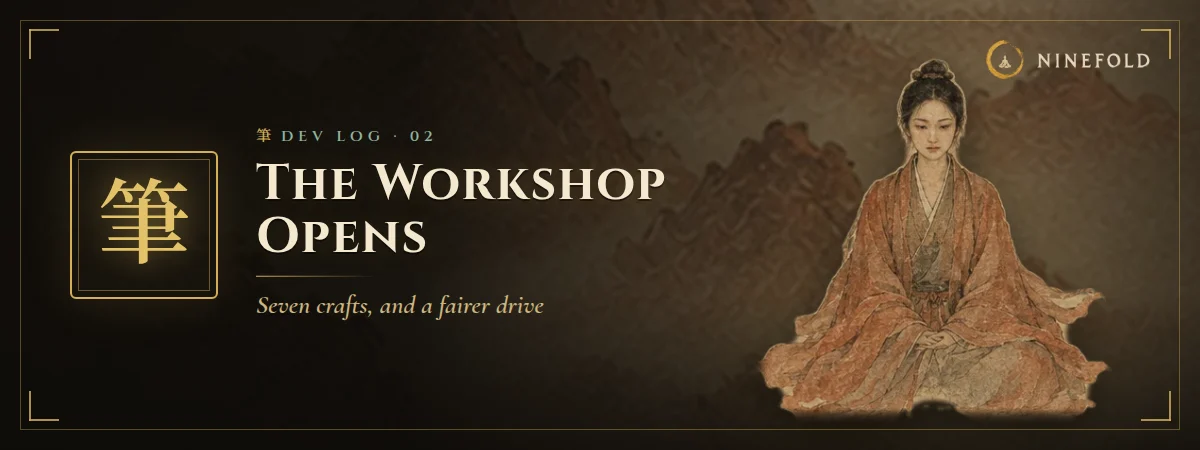
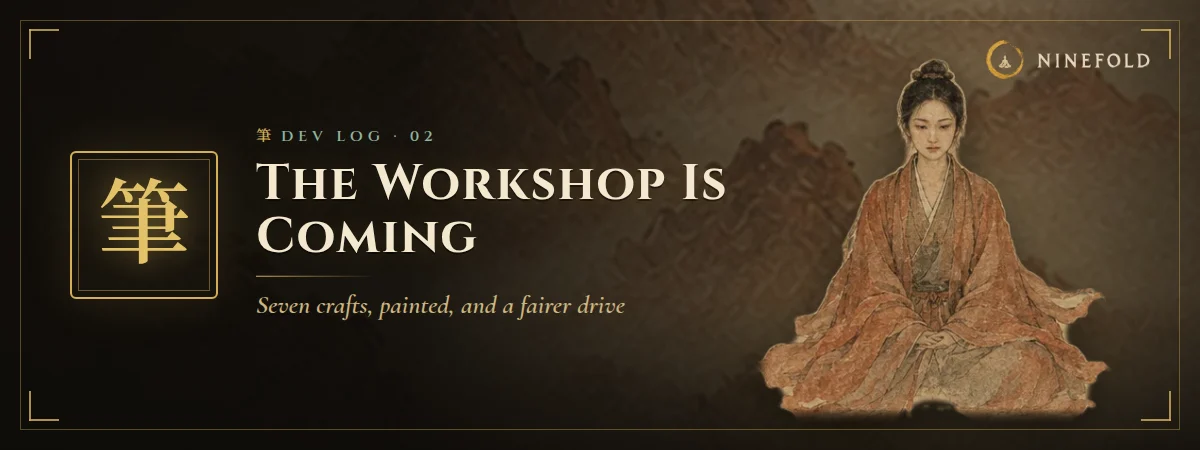
總 The workshop explains its total, frames its paintings whole, filters its recipes; the posts go in two steps
From Bruno testing on a PC:
- 'Total quê?': the top line is now 總 Total level 305/693, and 總 answers a
  tap with what it is, through the game's own note that tips.mjs checks.
- 'As imagens estão estranhas e mal centradas': a craft's painting was
  cut into a wide band (a basket and half a hat). It now sits whole and
  square beside the craft's name, with the rank, level, experience and tool
  beside it too, and the tile seals are zoomed past their paper ring.
- Filters: a craft with more than ten recipes gets a search that looks
  through all its lists, and All, Ready now and Coming next.
- The Discord goes in two steps: an announcement first (Dev log #2 · The
  Workshop is coming, the ideas post, a reply to Raziel), and the launch
  (Dev log #3, the guides, the guides' new lines) kept in
  tools/discord/launch-workshop.json until the game ships.

Claude-Session: https://claude.ai/code/session_01AMHKBrurHARqGfuWpT85XW

Changed region(s): [[0.3083, 0.6533, 0.5242, 0.7156], [0.2158, 0.4667, 0.4008, 0.56], [0.555, 0.3733, 0.6167, 0.4667]]

diff --git a/src/app/screens/Crafts.tsx b/src/app/screens/Crafts.tsx
@@ -51,6 +51,8 @@ export function Crafts({ state, onTask, onCarry, onUse, onPlace }: {
   const [group, setGroup] = useState<string | null>(null);
   const [looking, setLooking] = useState<string | null>(null);
   const [view, setView] = useState<'work' | 'pouch'>('work');
+  const [find, setFind] = useState('');
+  const [filter, setFilter] = useState<'all' | 'ready' | 'next'>('all');
   const kinds = Object.keys(state.crafts.pouch).filter((k) => ITEM_BY_KEY[splitKey(k).key]).length;
 
   const open = skillOpen(state, skill);
@@ -60,13 +62,24 @@ export function Crafts({ state, onTask, onCarry, onUse, onPlace }: {
   const mine = useMemo(() => RECIPES.filter((r) => r.skill === skill), [skill]);
   const groups = useMemo(() => [...new Set(mine.map((r) => r.group))], [mine]);
   const shown = group && groups.includes(group) ? group : defaultGroup(state, skill, groups);
-  const all = mine.filter((r) => (groups.length < 2 || r.group === shown)
+  // 篩 A search looks through the whole craft, whatever list is open; otherwise the open
+  // list. Gear is only ever the realm you are in and the one before it.
+  const needle = find.trim().toLowerCase();
+  const all = mine.filter((r) => (needle
+      ? `${r.name} ${r.han} ${r.group}`.toLowerCase().includes(needle)
+      : (groups.length < 2 || r.group === shown))
     && (r.makes.kind !== 'gear' || (r.realm <= state.realm && r.realm >= state.realm - 1)));
+  const isLocked = (r: Recipe) => { const b = blocked(state, r); return b === 'level' || b === 'realm'; };
+  const ready = all.filter((r) => blocked(state, r) === null);
+  const locked = all.filter(isLocked);
+  const counts = { all: all.length, ready: ready.length, next: locked.length };
   // 列 Everything that can be made, and the next few that cannot yet, so the list says
-  // what is coming without turning into a wall of grey.
-  const locked = all.filter((r) => { const b = blocked(state, r); return b === 'level' || b === 'realm'; });
-  const list = all.filter((r) => !locked.includes(r) || locked.indexOf(r) < 3);
-  const later = locked.length - Math.min(3, locked.length);
+  // what is coming without turning into a wall of grey. The chips narrow it further.
+  const list = filter === 'ready' ? ready
+    : filter === 'next' ? locked.slice(0, 6)
+    : all.filter((r) => !isLocked(r) || locked.indexOf(r) < 3);
+  const later = filter === 'all' ? locked.length - Math.min(3, locked.length)
+    : filter === 'next' ? Math.max(0, locked.length - 6) : 0;
 
   const xp = state.crafts.xp[skill] ?? 0;
   const next = Math.min(99, level + 1);
@@ -75,14 +88,13 @@ export function Crafts({ state, onTask, onCarry, onUse, onPlace }: {
   return (
     <div className="crafts" data-view={view}>
       <div className="w-main">
-      <div className="row">
-        <span className="faint" style={{ fontSize: 12, letterSpacing: '.14em', textTransform: 'uppercase' }}>
-          業 {CRAFTS.tab}
-        </span>
-        <span className="mono" style={{ fontSize: 13, color: 'var(--gold)' }}>{CRAFTS.total(totalLevel(state))}</span>
+      {/* 總 One line: where you are, and the one number the whole workshop adds up to,
+          which answers a tap with what it is (Bruno, testing: "total quê?"). */}
+      <div className="row ctop">
+        <h2 className="heading" style={{ margin: 0, flex: 1 }}>{CRAFTS.head}</h2>
+        <span className="ctotal"><Term han="總" plain /> <span>{CRAFTS.totalLabel}</span>{' '}
+          <b className="mono">{totalLevel(state)}</b><i className="mono">/693</i></span>
       </div>
-
-      <h2 className="heading">{CRAFTS.head}</h2>
       <Task state={state} r={running} onStop={() => onTask(null)} />
 
       {/* 版 On a phone the workshop and the pouch are two views of one screen, so neither
@@ -104,7 +116,7 @@ export function Crafts({ state, onTask, onCarry, onUse, onPlace }: {
           return (
             <button key={k.key} className="cskill" data-on={k.key === skill} data-shut={!on}
               data-run={running?.skill === k.key}
-              onClick={() => { setSkill(k.key); setGroup(null); setLooking(null); }}>
+              onClick={() => { setSkill(k.key); setGroup(null); setLooking(null); setFind(''); setFilter('all'); }}>
               <Seal skill={k.key} han={k.seal} />
               <span className="cs-name">{k.name}</span>
               <span className="cs-sub">
@@ -117,20 +129,22 @@ export function Crafts({ state, onTask, onCarry, onUse, onPlace }: {
       </div>
 
       <div className="card cpanel">
-        <Scene skill={skill} />
-        <div className="row">
-          <span>
-            <b className="cjk" style={{ fontSize: 18, color: 'var(--gold)' }}><Term han={info.han} plain /></b>{' '}
-            <b style={{ fontSize: 16 }}>{info.name}</b>
-          </span>
-          {open && <span className="mono" style={{ color: 'var(--gold)' }}>{CRAFTS.level(level)}</span>}
-        </div>
-        <p className="faint" style={{ margin: '4px 0 0', fontSize: 12.5 }}>{info.does}</p>
+        <div className="cphead">
+          <Scene skill={skill} />
+          <div style={{ minWidth: 0 }}>
+            <div className="row">
+              <span>
+                <b className="cjk" style={{ fontSize: 18, color: 'var(--gold)' }}><Term han={info.han} plain /></b>{' '}
+                <b style={{ fontSize: 16 }}>{info.name}</b>
+              </span>
+            </div>
+            <p className="faint" style={{ margin: '4px 0 0', fontSize: 12.5 }}>{info.does}</p>
         {!open && <p className="faint" style={{ margin: '8px 0 0', fontSize: 12.5 }}>
           {CRAFTS.opensLong(info.seal, info.name, info.realm)}</p>}
         {open && (
           <>
-            <p className="crank"><span className="cjk"><Term han={rank.han} plain /></span> {rank.name}</p>
+            <p className="crank"><span className="cjk"><Term han={rank.han} plain /></span> {rank.name}
+              <span className="mono clevel">{CRAFTS.level(level)}</span></p>
             <i className="cxp"><i style={{ width: `${Math.round((level >= 99 ? 1 : (xp - XP_TABLE[level]) / (XP_TABLE[next] - XP_TABLE[level])) * 100)}%` }} /></i>
             <p className="faint mono" style={{ margin: '4px 0 0', fontSize: 11.5 }}>
               {level >= 99 ? CRAFTS.xpTop(num(Math.floor(xp))) : CRAFTS.xpTo(num(Math.floor(xp)), num(Math.ceil(XP_TABLE[next] - xp)), next)}
@@ -149,6 +163,8 @@ export function Crafts({ state, onTask, onCarry, onUse, onPlace }: {
             )}
           </>
         )}
+          </div>
+        </div>
       </div>
 
       {open && skill === 'array' && <Floor state={state} onPlace={onPlace} />}
@@ -160,10 +176,23 @@ export function Crafts({ state, onTask, onCarry, onUse, onPlace }: {
           ))}
         </div>
       )}
-      {open && shown === 'Gear' && <p className="faint" style={{ margin: '0 0 8px', fontSize: 12 }}>{CRAFTS.gearShown(state.realm)} {CRAFTS.forgedRule}</p>}
+      {open && mine.length > 10 && (
+        <div className="cfilter">
+          <input type="search" value={find} placeholder={CRAFTS.findHint} aria-label={CRAFTS.findHint}
+            onChange={(e) => setFind(e.target.value)} />
+          <div className="cf-chips" role="tablist">
+            {(['all', 'ready', 'next'] as const).map((f) => (
+              <button key={f} role="tab" aria-selected={filter === f} onClick={() => setFilter(f)}>
+                {CRAFTS.filters[f]} <i className="mono">{counts[f]}</i></button>
+            ))}
+          </div>
+        </div>
+      )}
+      {open && shown === 'Gear' && !find && <p className="faint" style={{ margin: '0 0 8px', fontSize: 12 }}>{CRAFTS.gearShown(state.realm)} {CRAFTS.forgedRule}</p>}
 
       {open && (
         <div className="crecipes">
+          {list.length === 0 && <p className="faint" style={{ margin: 0, fontSize: 12.5 }}>{CRAFTS.nothingShown}</p>}
           {list.map((r) => (
             <Row key={r.key} state={state} r={r} on={state.crafts.task === r.key}
               onStart={() => onTask(state.crafts.task === r.key ? null : r.key)} />

diff --git a/src/app/theme.css b/src/app/theme.css
@@ -3000,12 +3000,31 @@ nav.tabs button:active:not([data-shut='true']) { transform: scale(.93); }
                         color: var(--gold); border: 1px solid var(--gild-strong); border-radius: 7px; }
 .crafts .cskill b.cjk[data-painted='true'] { border: 0; overflow: hidden; border-radius: 50%;
                                           box-shadow: 0 0 0 1px var(--gild-strong); }
-.crafts .cskill b.cjk img { display: block; width: 34px; height: 34px; }
+.crafts .cskill b.cjk img { display: block; width: 34px; height: 34px; transform: scale(1.32); }
 .crafts .cskill[data-shut='true'] b.cjk img { filter: grayscale(.8); }
-.crafts .cscene { margin: -4px -4px 10px; height: 118px; border-radius: 8px; overflow: hidden;
-                  box-shadow: inset 0 0 0 1px var(--gild); }
-.crafts .cscene img { display: block; width: 100%; height: 100%; object-fit: cover; object-position: 50% 55%;
-                      filter: saturate(.92) brightness(.92); }
+/* 坊 The craft's painting, whole and square beside its name: a painting is a scene, and
+   cut into a band it showed a basket and half a hat (Bruno: "mal centradas"). */
+.crafts .cphead { display: grid; grid-template-columns: 92px minmax(0, 1fr); gap: 12px; align-items: start; }
+.crafts .cscene { width: 92px; height: 92px; border-radius: 8px; overflow: hidden; background: #d8c49a;
+                  box-shadow: 0 0 0 1px var(--gild-strong), 0 4px 14px rgba(0, 0, 0, .35); }
+.crafts .cscene img { display: block; width: 100%; height: 100%; object-fit: cover; }
+/* 總 The top line: where you are, and the one number the workshop adds up to. */
+.crafts .crank { display: flex; align-items: baseline; gap: 6px; }
+.crafts .crank .clevel { margin-left: auto; color: var(--gold); font-size: 13px; }
+.crafts .ctop { align-items: center; gap: 10px; margin-bottom: 12px; }
+.crafts .ctotal { white-space: nowrap; font-size: 12px; color: var(--faint); display: inline-flex; align-items: baseline; gap: 4px; }
+.crafts .ctotal b { font-size: 15px; color: var(--gold); }
+.crafts .ctotal i { font-style: normal; }
+/* 篩 Search and three chips, for a craft with more recipes than a screen holds. */
+.crafts .cfilter { display: flex; flex-wrap: wrap; gap: 8px; align-items: center; margin: 0 0 10px; }
+.crafts .cfilter input { flex: 1 1 160px; min-width: 0; padding: 8px 11px; border-radius: 9px; font: inherit; font-size: 13px;
+                         color: var(--text); background: rgba(20, 17, 13, .7); border: 1px solid var(--line); }
+.crafts .cfilter input:focus { outline: none; border-color: var(--gild-strong); }
+.crafts .cf-chips { display: flex; gap: 6px; flex-wrap: wrap; }
+.crafts .cf-chips button { padding: 6px 10px; border-radius: 99px; font-size: 12px; color: var(--faint);
+                           background: none; border: 1px solid var(--line); }
+.crafts .cf-chips button[aria-selected='true'] { color: var(--gold); border-color: var(--gild-strong); background: rgba(212, 175, 86, .1); }
+.crafts .cf-chips i { font-style: normal; opacity: .7; margin-left: 2px; }
 .crafts .ctool { display: inline-block; vertical-align: -5px; margin-right: 4px; }
 .crafts .ctool img.emblem { border-radius: 50%; }
 .crafts .w-main, .crafts .w-work, .crafts .w-side { display: contents; }
@@ -3100,11 +3119,12 @@ nav.tabs button:active:not([data-shut='true']) { transform: scale(.93); }
   .crafts .cskills { grid-template-columns: repeat(4, minmax(0, 1fr)); }
   .crafts .crecipes { display: grid; grid-template-columns: repeat(auto-fill, minmax(330px, 1fr)); gap: 10px; align-items: start; }
   .crafts .crecipes > p { grid-column: 1 / -1; }
-  .crafts .cscene { height: 150px; }
+  .crafts .cphead { grid-template-columns: 132px minmax(0, 1fr); gap: 16px; }
+  .crafts .cscene { width: 132px; height: 132px; }
   .crafts .w-side .cpouch { grid-template-columns: repeat(auto-fill, minmax(52px, 1fr)); }
 }
 /* A laptop's stage holds four tiles only if the rank waits for the panel below. */
 @media (min-width: 1100px) and (max-width: 1599px) {
   .crafts .cskill .cs-rank { display: none; }
-  .crafts .cscene { height: 120px; }
 }
+@media (max-width: 360px) { .crafts .ctotal > span:not(.term) { display: none; } }

diff --git a/src/app/copy.ts b/src/app/copy.ts
@@ -639,6 +639,7 @@ export const KEY = {
   craftRank: (at: number) => `A craft's rank from level ${at}.`,
   craftTop: (name: string) => `What level 99 of ${name} is called.`,
   workshop: 'Where the seven crafts are worked, one task at a time.',
+  craftTotal: 'Your seven craft levels added up: 7 when every craft is new, 693 when all seven stand at 99. Every level in any craft adds one, so it grows with whatever you work.',
   pouch: 'Everything the workshop gathers and makes.',
   familiar: 'How many times a recipe has been made. Five marks, each one a small edge on that recipe.',
   carried: 'An elixir and a sigil taken into the next warden, heart demon or vault gate. Spent only on a win.',
@@ -1593,6 +1594,11 @@ export const CRAFTS = {
   tab: 'Crafts',
   head: '業 The workshop',
   total: (n: number) => `Total ${n}/693`,
+  totalLabel: 'Total level',
+  // 篩 The recipe filters, for a craft with more recipes than a screen holds.
+  findHint: 'Find a recipe',
+  filters: { all: 'All', ready: 'Ready now', next: 'Coming next' } as Record<'all' | 'ready' | 'next', string>,
+  nothingShown: 'Nothing here right now. Try All, or gather what the recipes ask for.',
   later: (n: number) => `${n} more ${n === 1 ? 'opens' : 'open'} further up the craft.`,
   says: 'One task at a time. It repeats on its own, and keeps working for twelve hours after you leave. Nothing it makes is ever lost.',
   idle: 'The workshop is standing still. Choose something below and set it going.',

diff --git a/src/app/glossary.ts b/src/app/glossary.ts
@@ -139,6 +139,7 @@ export const GROUPS: readonly Group[] = [
       ...RANKS.map((r) => ({ han: r.han, name: r.name, note: KEY.craftRank(r.at) })),
       ...SKILLS.map((k) => ({ han: k.cap.han, name: k.cap.name, note: KEY.craftTop(k.name) })),
       { han: '業', name: 'The workshop', note: KEY.workshop },
+      { han: '總', name: 'Total level', note: KEY.craftTotal },
       { han: '儲物袋', name: 'The pouch', note: KEY.pouch },
       { han: '習', name: 'Familiarity', note: KEY.familiar },
       { han: '攜', name: 'Carried', note: KEY.carried },

diff --git a/docs/devlog-next.md b/docs/devlog-next.md
@@ -2,16 +2,16 @@
 
 What is ready on the working branch for the next release, and the words the players will
 read. Nothing here is live: `main` moves only when Bruno has seen the changes and approved
-this text. The words are already in `tools/discord/server.json` on the branch, so the push
-to `main` that ships the game posts them too:
+this text. The words go out in two steps (Bruno, 2026-09-30: announce first, guides at launch):
 
-- `update-2026-09-30`: 筆 Dev log #2 · The Workshop opens (devlog)
-- `g-crafts`: 業 The Workshop guide (guides), and the 圍 drive and 開 realm guides updated
-- `ideas-workshop`: 業 The Workshop: tell us what you think (ideas, pinned)
-- a second answer in Raziel's *jobs* thread, pointing at the post above
-
-The pictures they use (`public/discord/workshop*.webp`, `promo/workshop*.webp`, three
-banners) are committed with them, so Pages serves them before Discord first asks.
+1. **The announcement**, already in `tools/discord/server.json`: `devlog-2` (筆 Dev log #2 ·
+   The Workshop is coming), the pinned `ideas-workshop` post asking what to change, and a
+   reply in Raziel's *jobs* thread. It needs only `server.json` and `public/discord/` on
+   `main`: the game itself does not change.
+2. **The launch**, kept in `tools/discord/launch-workshop.json`: `devlog-3` (The Workshop
+   opens), the `g-crafts` guide, the drive and realm guides' new lines, the ideas post saying
+   it is live, and a second reply to Raziel. Moved into `server.json` in the push that ships
+   the game, with a line in devlog-3 for what the testers' answers changed.
 
 ## Ready on the branch
 
